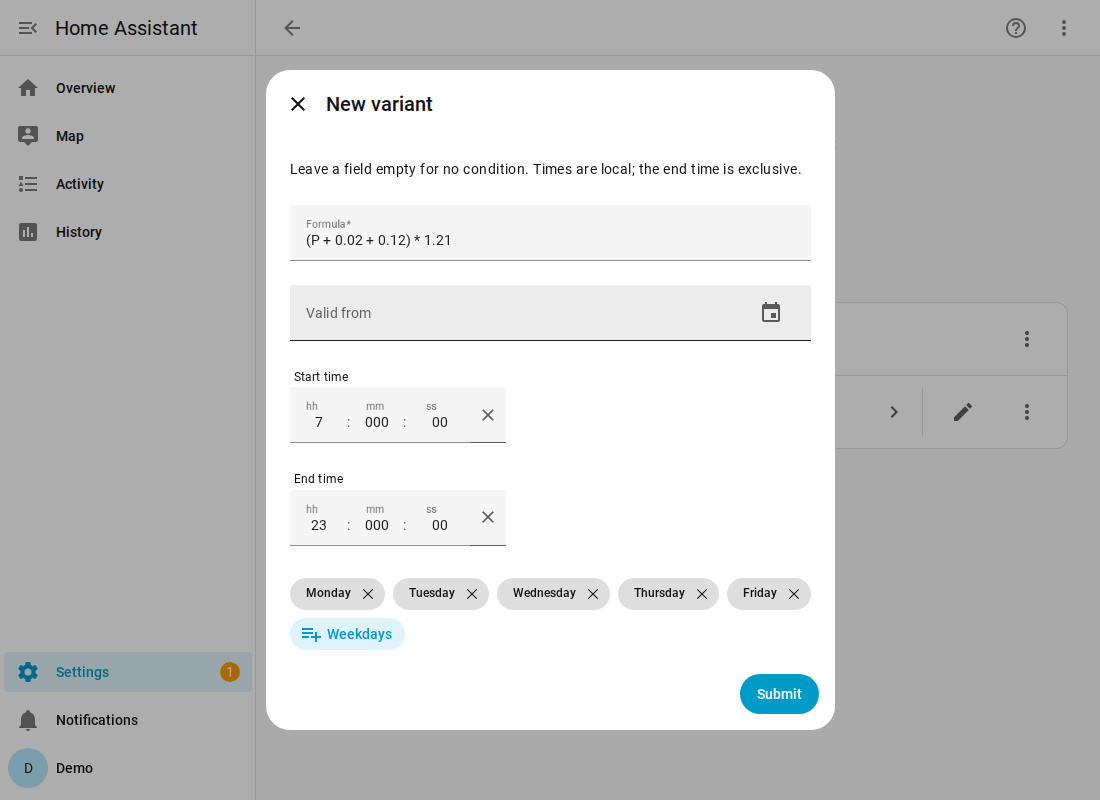
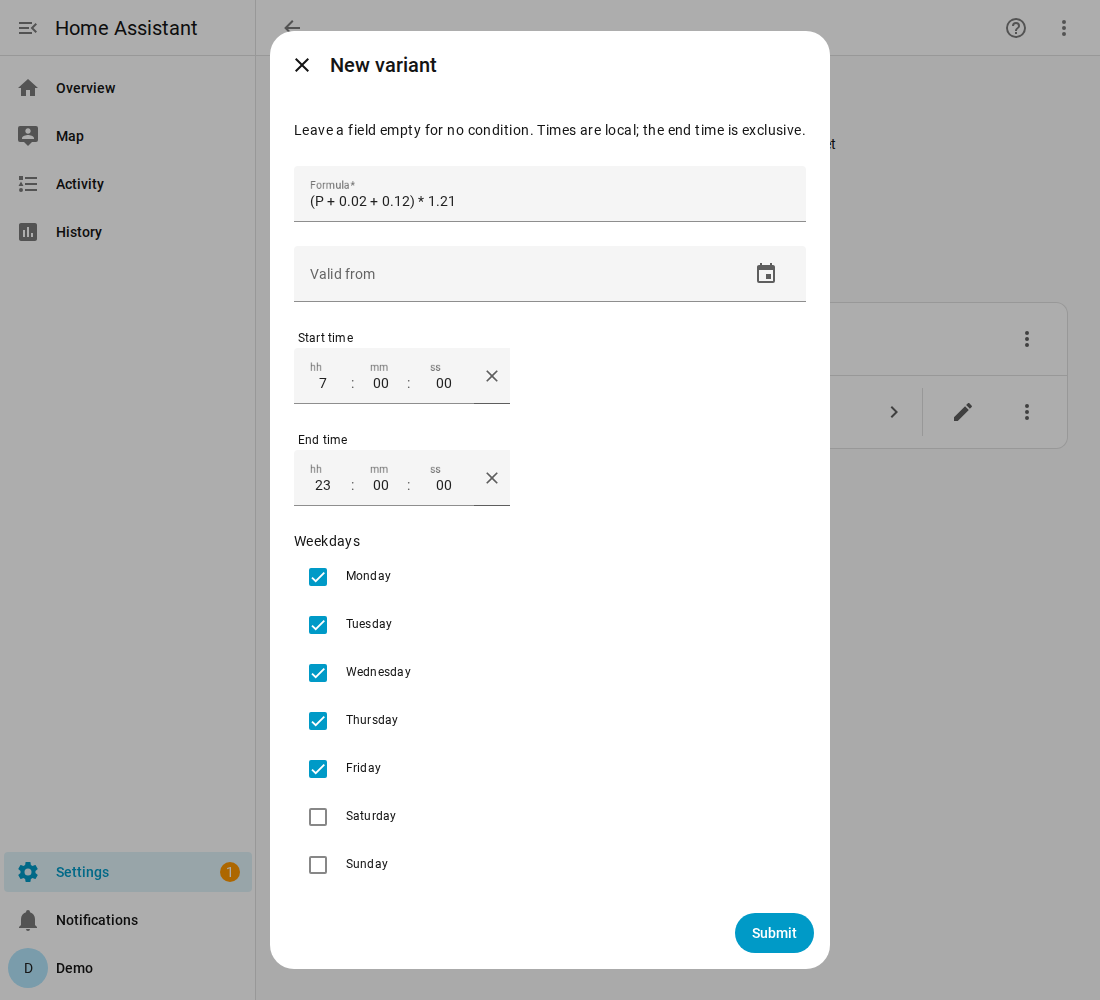
fix(ha): weekdays as a list in Monday to Sunday order (#2)

diff --git a/custom_components/day_ahead_price_forecast/config_flow.py b/custom_components/day_ahead_price_forecast/config_flow.py
@@ -20,6 +20,7 @@ from homeassistant.helpers.selector import (
     SelectOptionDict,
     SelectSelector,
     SelectSelectorConfig,
+    SelectSelectorMode,
     TextSelector,
     TimeSelector,
 )
@@ -173,6 +174,7 @@ class ControllerSubentryFlow(ConfigSubentryFlow):
                     SelectSelectorConfig(
                         options=WEEKDAYS,
                         multiple=True,
+                        mode=SelectSelectorMode.LIST,  # keeps Monday..Sunday order
                         translation_key="weekday",
                     )
                 ),
